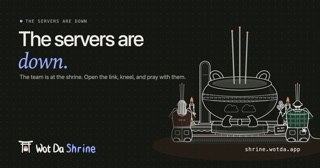
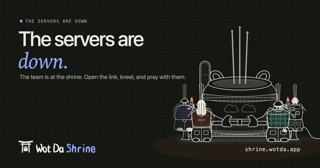
Kneel four in the link previews, as many as are praying: the home page's chat card says 4 praying beside a thumbnail of two; the previews now kneel four of the team (a dev, a devops, the boss and a PM), laid out as a crowded room lays them, the closest pair squeezed in front of the candles and the n

Changed region(s): [[0.8125, 0.4762, 1.0, 0.8631], [0.5312, 0.4762, 0.6875, 0.8631]]

diff --git a/src/lib/share.js b/src/lib/share.js
@@ -139,13 +139,21 @@ function wrap(text, max, lines = 2) {
 /** Strip the live altar of anything that would not survive as a standalone SVG. `plain` also clears the tablet (a picture for every room). */
 /**
  * People kneeling at the altar, backs to us, incense raised, laid out as the congregation lays them
- * (congregation.js): the closest pair either side of the middle first, in the burner's units, feet on its floor.
+ * (congregation.js), in the burner's units, feet on its floor: the closest pair either side of the middle;
+ * a crowd squeezes in front of the candles and every other pair kneels a step back, smaller, behind them.
  */
 function kneelersMarkup(looks = []) {
-  return looks.map((look, i) => {
-    const x = 260 + (i % 2 ? 1 : -1) * (226 + Math.floor(i / 2) * 76);
-    return `<g data-tone="${look.tone}" transform="translate(${x} 460.6) scale(1.062)">${kneeling('kneeler', { look })}</g>`;
-  }).join('');
+  const crowded = looks.length > 2;
+  const inner = crowded ? 150 : 226;
+  const gap = crowded ? 66 : 76;
+  const slots = looks.map((look, i) => {
+    const k = Math.floor(i / 2);
+    const back = crowded && k % 2 === 1;
+    const x = 260 + (i % 2 ? 1 : -1) * (inner + k * gap);
+    const s = 1.062 * (back ? 0.8 : 1);
+    return { back, svg: `<g data-tone="${look.tone}" transform="translate(${x} ${460.6 - (back ? 42 : 0)}) scale(${s})">${kneeling('kneeler', { look })}</g>` };
+  });
+  return [...slots.filter((o) => o.back), ...slots.filter((o) => !o.back)].map((o) => o.svg).join('');
 }
 
 function altarMarkup(host, plain = false, kneelers = []) {

diff --git a/src/app/shareSheet.js b/src/app/shareSheet.js
@@ -82,8 +82,8 @@ const PREVIEWS = {
   down: { eyebrow: 'THE SERVERS ARE DOWN', headline: ['The servers are', 'down.'], facts: 'The team is at the shrine. Open the link, kneel, and pray with them.' },
   back: { eyebrow: 'THE SERVERS ARE BACK', headline: ['The servers are', 'back.'], facts: 'The vigil is over. Come and see what the team prayed for.' },
 };
-/** Who kneels in the pictures: the same two of the team every time, the closest mats (the next pair would sit past the card's edge). */
-const PREVIEW_CAST = [['dev', 1], ['devops', 2]];
+/** Who kneels in the pictures: the same four of the team every time, as many as the home page's chat card says are praying. */
+const PREVIEW_CAST = [['dev', 1], ['devops', 2], ['boss', 3], ['pm', 0]];
 export async function previewCard(kind) {
   const svg = cardSvg({
     room: '', resolved: kind === 'back', people: 0, avatars: [], quotes: [], url: 'shrine.wotda.app', plain: true,
